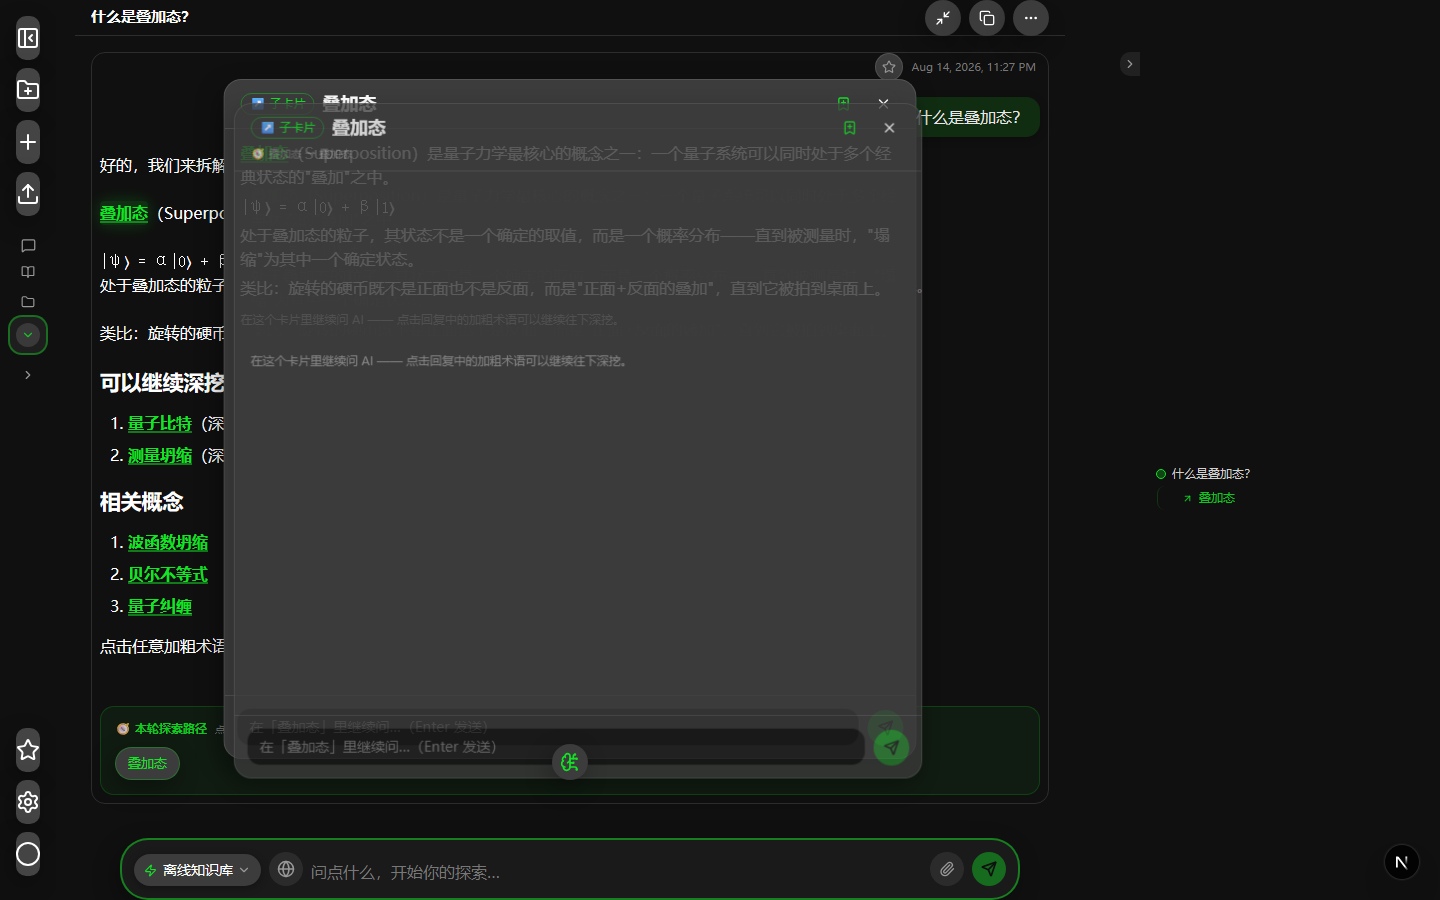
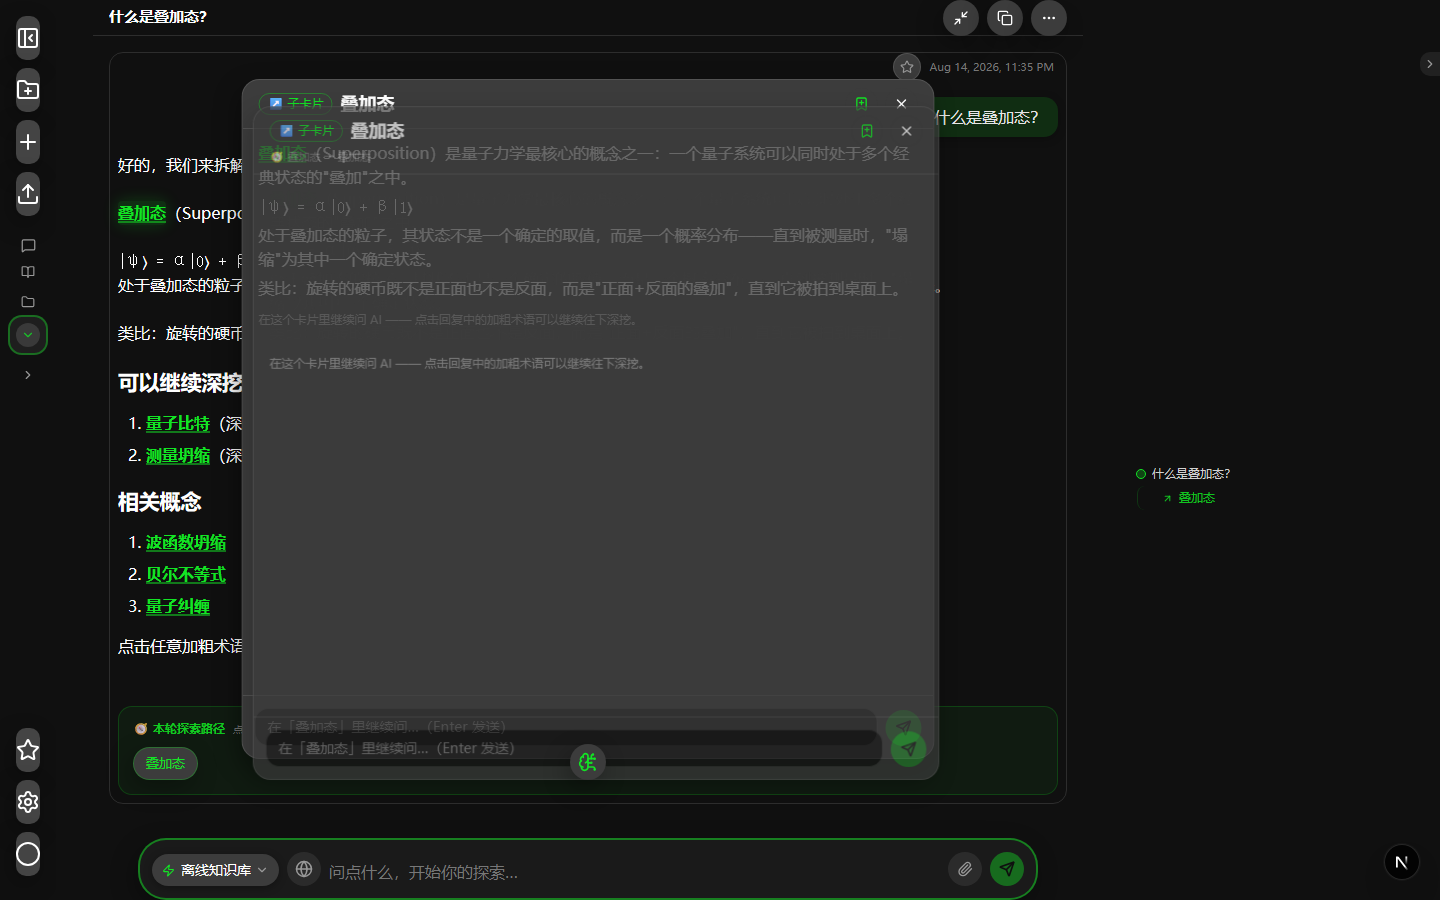
四段式布局规范：侧边栏真实占位、对话区|卡片树|思维宇宙顺序固定、思维宇宙折叠条贴最右、滚动条回到对话框右缘

diff --git a/src/components/sites/ai-explore-poker-820d0558/shell.tsx b/src/components/sites/ai-explore-poker-820d0558/shell.tsx
@@ -69,12 +69,9 @@ export function AppShell() {
 
   return (
     <div className="fixed inset-0 flex overflow-hidden overscroll-none bg-bg">
-      {/* ---- Sidebar: absolute overlay on desktop (does not take flow space —
-             main stays full-screen so content centers on x=720 like the
-             original), off-canvas drawer on mobile. Width tracks `collapsed`
-             on every breakpoint (225px / 56px). ---- */}
+      {/* ---- Sidebar: 桌面端为真实占位列（不遮挡对话框）；移动端 off-canvas 抽屉 ---- */}
       <div
-        className={`fixed bottom-0 left-0 top-0 z-40 h-full overflow-hidden bg-bg transition-all duration-200 sm:absolute sm:translate-x-0 sm:bg-transparent ${
+        className={`fixed inset-y-0 left-0 z-40 h-full shrink-0 overflow-hidden bg-bg transition-all duration-200 sm:static sm:z-auto sm:translate-x-0 sm:bg-transparent ${
           collapsed ? "w-[56px]" : "w-[225px]"
         } ${mobileOpen ? "translate-x-0" : "-translate-x-full"}`}
       >
@@ -90,9 +87,9 @@ export function AppShell() {
         />
       )}
 
-      {/* ---- Main column ---- */}
-      <main className="relative flex-1 overflow-hidden flex">
-        {/* 对话区（flex-1；聊天卡片在其内居中，最大 990px） */}
+      {/* ---- Main row: 对话区 | 轮次导航卡片树 | 思维宇宙（贴最右） ---- */}
+      <main className="relative flex min-w-0 flex-1 overflow-hidden">
+        {/* 对话区（聊天卡片在其中居中，最大 990px） */}
         <div className="relative z-10 flex h-full min-w-0 flex-1 flex-col">
           {/* Mobile hamburger — opens the sidebar drawer */}
           <button
@@ -118,29 +115,7 @@ export function AppShell() {
             </div>
           </div>
 
-          {/* Desktop: right Mindscape panel (mobile opens its own fullscreen
-              drawer via the FAB below — container stays decoration-free there) */}
-          {mindscapeOpen && (
-            <div className="absolute right-0 top-0 z-10 h-full sm:w-[225px] sm:border-l sm:border-divider sm:bg-bg/60 sm:backdrop-blur-sm">
-              <MindscapePanel onClose={() => setMindscapeOpen(false)} />
-            </div>
-          )}
-          {/* Desktop: always-visible 20px Mindscape rail (expand/collapse) */}
-          <div className="absolute right-0 top-0 z-20 hidden h-full w-[20px] sm:block">
-            <button
-              type="button"
-              aria-label={mindscapeOpen ? "收起思维宇宙" : "打开思维宇宙"}
-              title="思维宇宙"
-              onClick={() => setMindscapeOpen(!mindscapeOpen)}
-              className="absolute right-0 top-[52px] flex h-6 w-5 items-center justify-center rounded-l-lg bg-btn-std/40 text-text-tertiary transition-colors hover:bg-btn-std"
-            >
-              <ChevronLeft size={14} className={mindscapeOpen ? "" : "rotate-180"} />
-            </button>
-          </div>
-
-          {/* Centered Mind Universe toggle — original places it bottom-center above
-              the input (32x32 @90px on mobile / 36x36 @120px on desktop) with a
-              brand-green glyph. Click again to close the Mindscape panel. */}
+          {/* Centered Mind Universe toggle — bottom-center of the dialog area */}
           <button
             type="button"
             aria-label={mindscapeOpen ? "关闭思维宇宙" : "打开思维宇宙"}
@@ -156,14 +131,32 @@ export function AppShell() {
           </div>
         </div>
 
-        {/* Desktop: 轮次导航卡片树 —— 对话框与思维宇宙之间的独立区域 */}
-        <div className="relative z-10 hidden w-[300px] shrink-0 flex-col lg:flex">
+        {/* 轮次导航卡片树：对话框与思维宇宙之间的独立区域 */}
+        <div className="relative z-10 mr-5 hidden w-[300px] shrink-0 flex-col lg:flex">
           <div
             className="my-auto max-h-[62%] overflow-y-auto overflow-x-hidden pt-[8vh]"
             title="轮次导航图：点击跳转 · 右键切换已读/未读"
           >
             <TurnGraphPanel />
           </div>
+        </div>
+
+        {/* 思维宇宙（贴最右侧）：Mindscape 面板 + 20px 折叠条 */}
+        {mindscapeOpen && (
+          <div className="absolute right-0 top-0 z-10 h-full w-[225px] border-l border-divider bg-bg/60 backdrop-blur-sm">
+            <MindscapePanel onClose={() => setMindscapeOpen(false)} />
+          </div>
+        )}
+        <div className="absolute right-0 top-0 z-20 hidden h-full w-[20px] sm:block">
+          <button
+            type="button"
+            aria-label={mindscapeOpen ? "收起思维宇宙" : "打开思维宇宙"}
+            title="思维宇宙"
+            onClick={() => setMindscapeOpen(!mindscapeOpen)}
+            className="absolute right-0 top-[52px] flex h-6 w-5 items-center justify-center rounded-l-lg bg-btn-std/40 text-text-tertiary transition-colors hover:bg-btn-std"
+          >
+            <ChevronLeft size={14} className={mindscapeOpen ? "" : "rotate-180"} />
+          </button>
         </div>
       </main>
 
